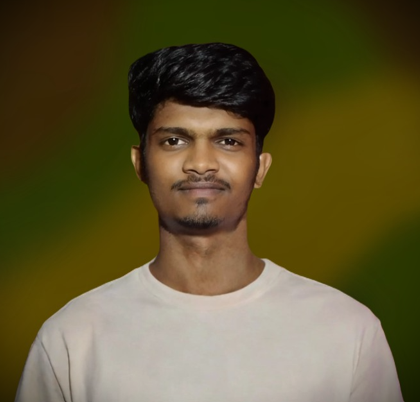
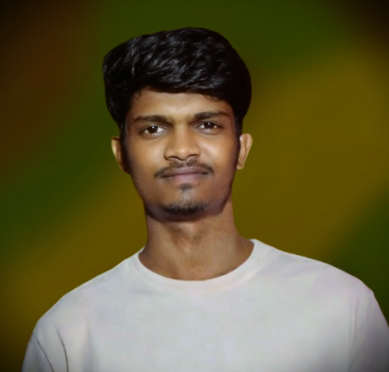
changed dp

diff --git a/app/components/Profile.tsx b/app/components/Profile.tsx
@@ -50,7 +50,7 @@ export default function Profile() {
                 </div>
             </div>
             <div className='w-auto'>
-                <Image src="/ganesh.png" alt="Ganesh" width={150} height={150} className='aspect-square rounded-full ' />
+                <Image src="/dp2.jpg" alt="Ganesh" width={150} height={150} className='aspect-square rounded-full ' />
             </div>
         </div>
     )
